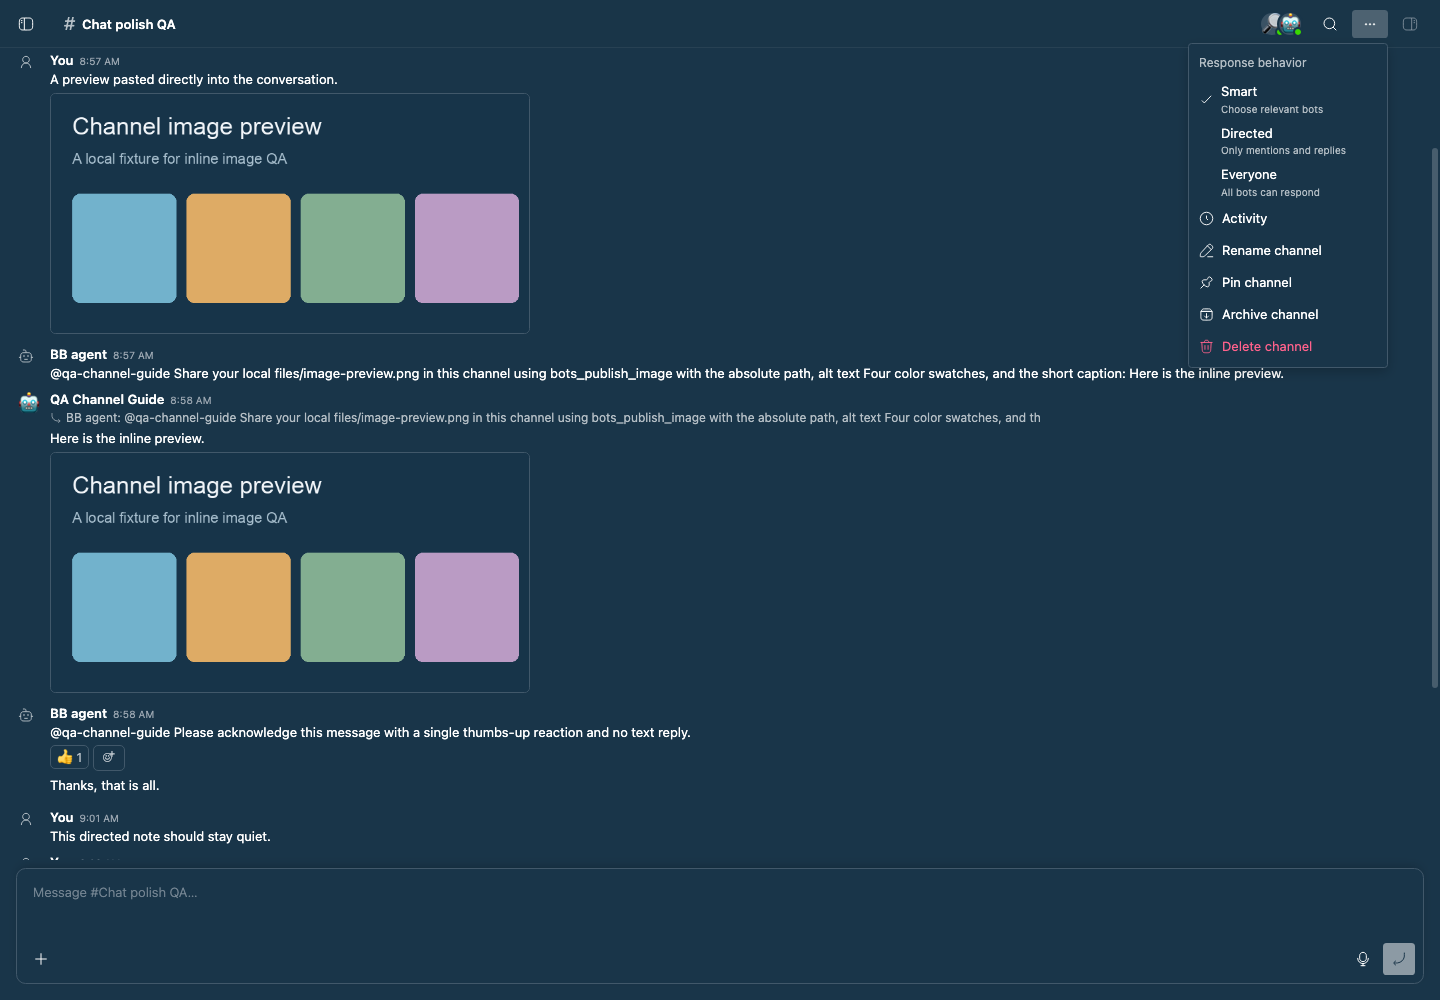
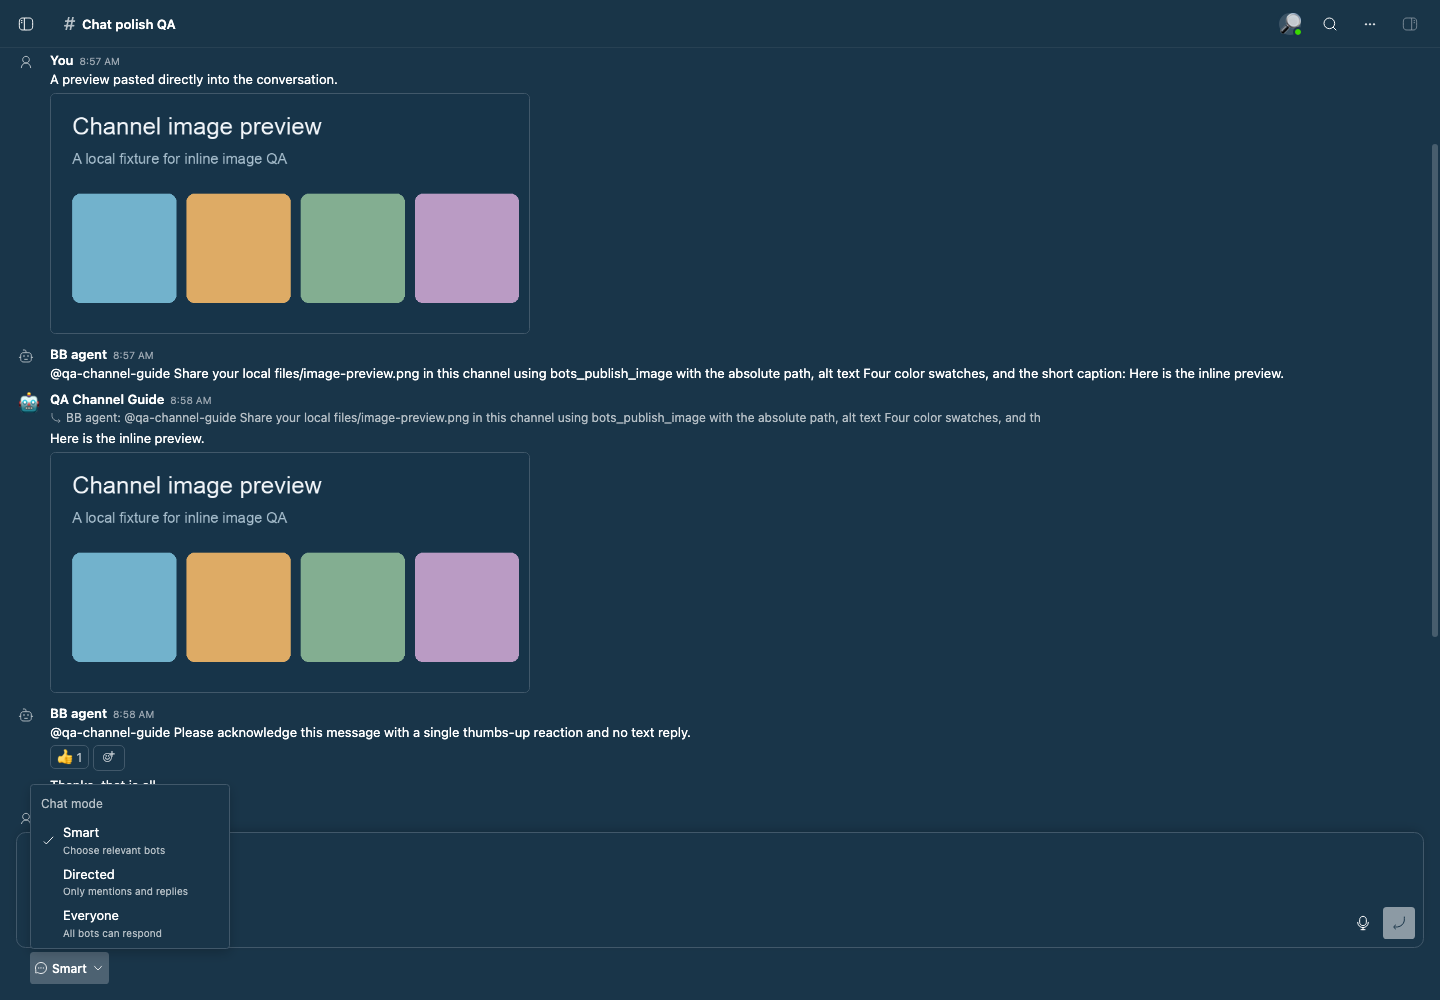
feat(bots): move chat mode to composer footer

diff --git a/packages/bb-plugin-bots/channel-mode-picker.tsx b/packages/bb-plugin-bots/channel-mode-picker.tsx
@@ -1,0 +1,109 @@
+import { useId, useState } from "react";
+import * as DropdownMenu from "@radix-ui/react-dropdown-menu";
+import { experimental_Icon as Icon, useRpc } from "@get-bb/plugin-sdk/app";
+import type { Room, rpcContract } from "./contract";
+import { Button } from "./components/ui/button";
+import { ErrorMessage, message } from "./bot-ui";
+
+const modes = [
+  { value: "smart", label: "Smart", hint: "Choose relevant bots" },
+  { value: "directed", label: "Directed", hint: "Only mentions and replies" },
+  { value: "everyone", label: "Everyone", hint: "All bots can respond" },
+] as const;
+
+export function ChannelModePicker({
+  room,
+  onChanged,
+}: {
+  room: Room;
+  onChanged: () => void;
+}) {
+  const rpc = useRpc<typeof rpcContract>();
+  const hintId = useId();
+  const [pending, setPending] = useState(false);
+  const [error, setError] = useState<string | null>(null);
+  const value = room.responseBehavior ?? "everyone";
+  const selected = modes.find((mode) => mode.value === value)!;
+
+  const changeMode = async (next: string) => {
+    const mode = modes.find((option) => option.value === next);
+    if (!mode || pending || room.archived) return;
+    setPending(true);
+    setError(null);
+    try {
+      await rpc.call("channelState", {
+        id: room.id,
+        responseBehavior: mode.value,
+        rememberDefault: true,
+      });
+      onChanged();
+    } catch (e) {
+      setError(message(e));
+    } finally {
+      setPending(false);
+    }
+  };
+
+  return (
+    <>
+      <DropdownMenu.Root>
+        <DropdownMenu.Trigger asChild>
+          <Button
+            type="button"
+            variant="ghost"
+            size="sm"
+            aria-label={`Chat mode: ${selected.label}`}
+            aria-busy={pending || undefined}
+            disabled={pending || !!room.archived}
+            // Match BB's ProjectSelector option trigger beneath the prompt box.
+            className="h-8 w-fit max-w-full min-w-0 justify-start gap-1 border-none bg-transparent px-1 text-xs leading-tight text-muted-foreground shadow-none hover:text-muted-foreground [&_[data-icon-root]]:size-3.5 max-md:pointer-coarse:h-9"
+          >
+            <Icon name="MessageSquare" aria-hidden />
+            <span className="truncate">{selected.label}</span>
+            <Icon name="ChevronDown" aria-hidden />
+          </Button>
+        </DropdownMenu.Trigger>
+        <DropdownMenu.Portal>
+          <DropdownMenu.Content
+            aria-label="Chat mode"
+            align="start"
+            side="top"
+            sideOffset={4}
+            collisionPadding={8}
+            className="channel-popover channel-mode-menu"
+          >
+            <DropdownMenu.Label className="channel-menu-label">
+              Chat mode
+            </DropdownMenu.Label>
+            <DropdownMenu.RadioGroup
+              value={value}
+              onValueChange={(next) => void changeMode(next)}
+            >
+              {modes.map((mode) => (
+                <DropdownMenu.RadioItem
+                  key={mode.value}
+                  value={mode.value}
+                  disabled={pending || !!room.archived}
+                  textValue={mode.label}
+                  aria-describedby={`${hintId}-${mode.value}`}
+                  className="channel-menu-row"
+                >
+                  <span className="channel-mode-mark" aria-hidden>
+                    <DropdownMenu.ItemIndicator>
+                      <Icon name="Check" />
+                    </DropdownMenu.ItemIndicator>
+                  </span>
+                  <span className="channel-bot-name">
+                    {mode.label}
+                    <small id={`${hintId}-${mode.value}`}>{mode.hint}</small>
+                  </span>
+                </DropdownMenu.RadioItem>
+              ))}
+            </DropdownMenu.RadioGroup>
+          </DropdownMenu.Content>
+        </DropdownMenu.Portal>
+      </DropdownMenu.Root>
+      <ErrorMessage error={error} />
+    </>
+  );
+}

diff --git a/packages/bb-plugin-bots/channels.tsx b/packages/bb-plugin-bots/channels.tsx
@@ -31,6 +31,7 @@ import { channelWork } from "./channel-work";
 import { ChannelSearch } from "./channel-search";
 import { ChannelAttachments } from "./channel-attachments";
 import { GroupComposer } from "./composer";
+import { ChannelModePicker } from "./channel-mode-picker";
 import { Menu, Modal, InvitePicker, ReactionPicker } from "./channel-controls";
 
 const uuid = /^[a-f0-9-]{36}$/;
@@ -732,40 +733,6 @@ export function ChannelsHeader({ subPath }: PluginNavPanelProps) {
           </Button>
         }
       >
-        <div className="channel-menu-label">Response behavior</div>
-        {(
-          [
-            ["smart", "Smart", "Choose relevant bots"],
-            ["directed", "Directed", "Only mentions and replies"],
-            ["everyone", "Everyone", "All bots can respond"],
-          ] as const
-        ).map(([value, label, hint]) => (
-          <button
-            key={value}
-            className="channel-menu-row"
-            aria-pressed={(room.responseBehavior ?? "everyone") === value}
-            disabled={pending}
-            onClick={() =>
-              void act(() =>
-                rpc.call("channelState", {
-                  id: room.id,
-                  responseBehavior: value,
-                  rememberDefault: true,
-                }),
-              )
-            }
-          >
-            <span className="channel-mode-mark" aria-hidden>
-              {(room.responseBehavior ?? "everyone") === value && (
-                <Icon name="Check" />
-              )}
-            </span>
-            <span className="channel-bot-name">
-              {label}
-              <small>{hint}</small>
-            </span>
-          </button>
-        ))}
         <button
           className="channel-menu-row"
           onClick={() => setActivityOpen(true)}
@@ -1424,6 +1391,7 @@ function ChannelChat({ id }: { id: string }) {
         paused={!!room.archived}
         bots={bots}
         memberIds={room.memberIds}
+        footer={<ChannelModePicker room={room} onChanged={load} />}
         onCreateBot={() => setCreateOpen(true)}
         reply={reply}
         onClearReply={() => setReply(null)}

diff --git a/packages/bb-plugin-bots/composer.tsx b/packages/bb-plugin-bots/composer.tsx
@@ -1,4 +1,4 @@
-import { useEffect, useRef, useState, useId } from "react";
+import { useEffect, useRef, useState, useId, type ReactNode } from "react";
 import { experimental_Icon as Icon, useRpc } from "@get-bb/plugin-sdk/app";
 import type { Bot, RoomMessage, rpcContract } from "./contract";
 import { Button } from "./components/ui/button";
@@ -35,7 +35,9 @@ export function GroupComposer({
   bots,
   memberIds,
   onCreateBot,
+  footer,
 }: {
+  footer?: ReactNode;
   autoFocus?: boolean;
   bots: Bot[];
   memberIds: string[];
@@ -532,6 +534,7 @@ export function GroupComposer({
           </Button>
         </div>
       </div>
+      {footer && <div className="group-compose-footer">{footer}</div>}
     </div>
   );
 }

diff --git a/packages/bb-plugin-bots/styles.css b/packages/bb-plugin-bots/styles.css
@@ -553,6 +553,10 @@
 .group-compose {
   overflow: hidden;
 }
+.group-compose-footer {
+  margin-top: 4px;
+  padding-inline: 14px;
+}
 .group-compose textarea {
   display: block;
   width: 100%;
@@ -1448,4 +1452,15 @@
   width: 14px;
   height: 14px;
   flex-shrink: 0;
+}
+.channel-mode-menu {
+  max-height: var(--radix-dropdown-menu-content-available-height);
+}
+.channel-mode-menu .channel-menu-row[data-highlighted] {
+  background: var(--state-hover);
+  outline: none;
+}
+.channel-mode-menu .channel-menu-row[data-disabled] {
+  pointer-events: none;
+  opacity: 0.5;
 }

diff --git a/packages/bb-plugin-bots/README.md b/packages/bb-plugin-bots/README.md
@@ -14,7 +14,7 @@ and native controls. Mission and memory editors are resizable, start at a bounde
 height, and show unsaved/saved state. Reloading with unsaved edits asks before
 discarding them. Profile, mission, memory, and new-bot drafts survive navigation and reloads on the same device. Profile and document saves reject stale versions instead of overwriting newer edits. Interrupted host cancellation stays visible and retries automatically.
 
-The channel menu has three **Response behavior** choices:
+The **Chat mode** selector beneath the message box has three choices:
 
 - **Smart** chooses the smallest relevant set of bots for an unaddressed message, including none for acknowledgments and finished conversations. New channels start here.
 - **Directed** only calls bots you mention or reply to.
@@ -207,8 +207,8 @@ and the compact membership menu. Their original model and reasoning choices are 
 
 ![Council advisors consulting through a BB channel](assets/channel-consultation.png)
 
-The image workflow and response menu below were captured in the running app after a user pasted an image and a real bot published the same local preview through its tool.
+The image workflow and chat mode selector below were captured in the running app after a user pasted an image and a real bot published the same local preview through its tool.
 
 ![Inline owner and bot images in a BB channel](assets/channel-images.png)
 
-![Channel response behavior menu](assets/channel-behavior.png)
+![Chat mode selector beneath the composer](assets/channel-behavior.png)

diff --git a/packages/bb-plugin-bots/docs/QA.md b/packages/bb-plugin-bots/docs/QA.md
@@ -120,6 +120,6 @@ preserved.
   along with full workspace typecheck, test suites, and build.
 
 Live screenshots: [inline images](../assets/channel-images.png) and
-[response behavior](../assets/channel-behavior.png). Restore the archived QA channel
+[chat mode beneath the composer](../assets/channel-behavior.png). Restore the archived QA channel
 before rerunning `BB_CAPTURE_ONLY=bots-images,bots-behavior` captures. Its bot is
 retired after verification, with workspace and history preserved.
